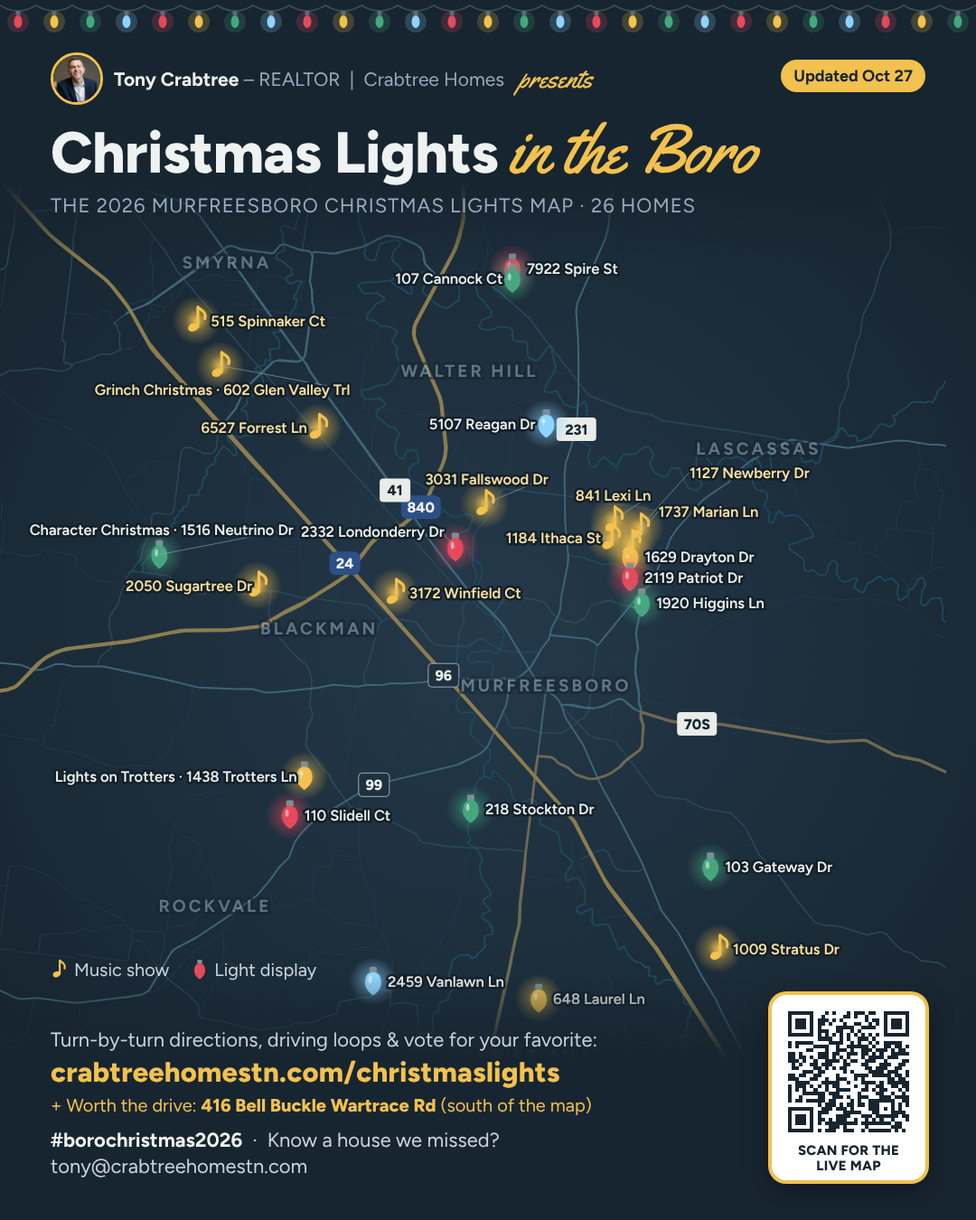
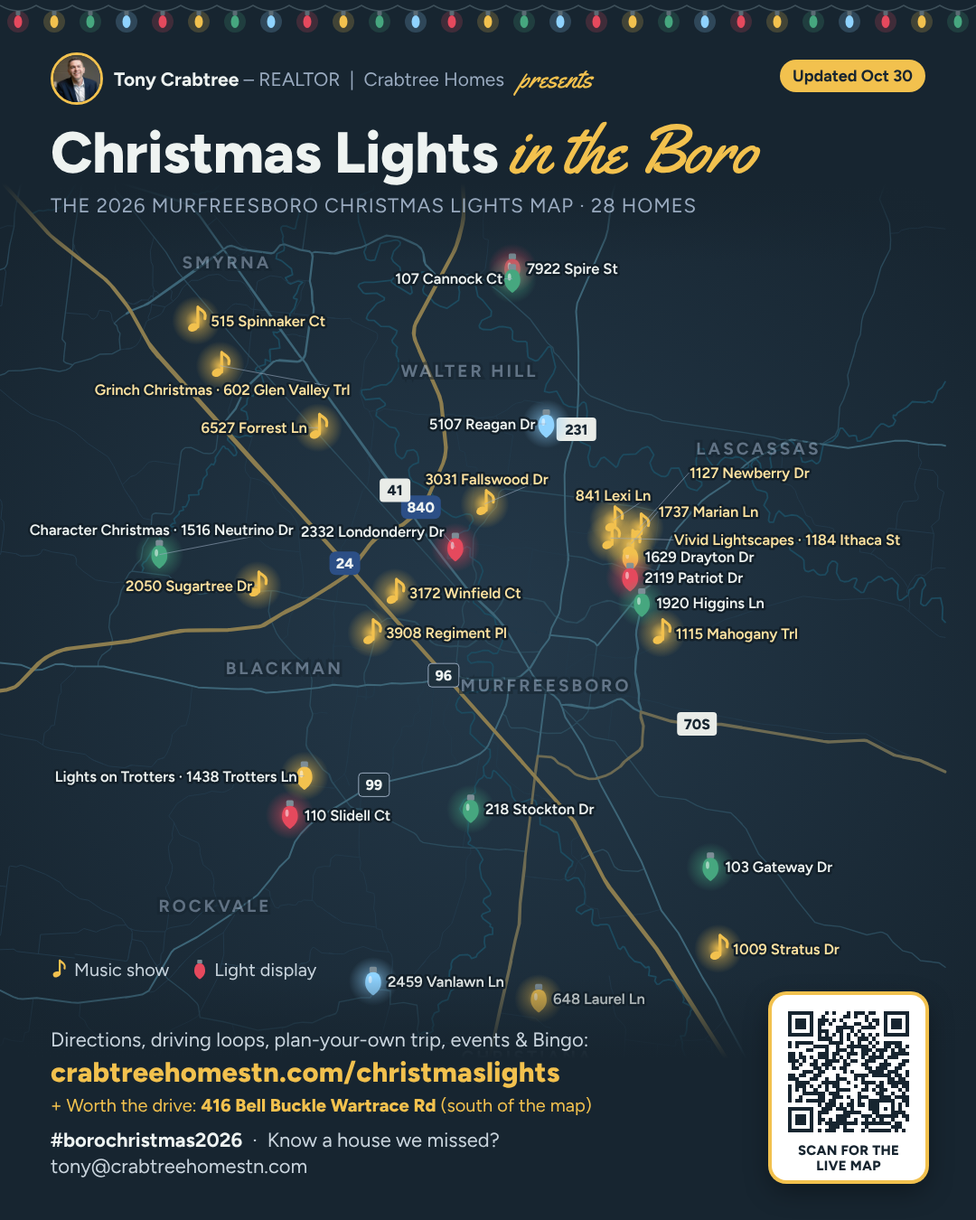
Add my trip planner, start from my location, drive times, events and bingo; 28 homes

diff --git a/index.html b/index.html
@@ -164,6 +164,49 @@ footer{margin-top:20px;padding-top:18px;border-top:1px solid var(--line);display
 .agent{background-image:radial-gradient(circle at 100% 0,rgba(229,73,93,.12),transparent 40%),radial-gradient(circle at 0 100%,rgba(70,167,127,.10),transparent 40%)}
 .mapcard{box-shadow:0 0 0 1px rgba(229,73,93,.08),0 18px 50px -30px rgba(229,73,93,.45)}
 @media (prefers-reduced-motion:reduce){#snow{display:none}}
+
+.tabs{overflow-x:auto;scrollbar-width:none}.tabs::-webkit-scrollbar{display:none}.tab{flex:0 0 auto;white-space:nowrap}
+@media (max-width:480px){.tab{padding:10px 9px;font-size:14px}}
+.startrow{display:flex;align-items:center;gap:8px 10px;flex-wrap:wrap;font-size:13px;margin-top:14px}
+.startrow .chip[aria-pressed="true"]{background:var(--ice);border-color:var(--ice);color:#0e1d26}
+#startMsg{color:var(--muted);font-size:12.5px}
+.chip.trip-chip{border-color:var(--gold)}
+.chip.trip-chip[aria-pressed="true"]{background:var(--gold);border-color:var(--gold);color:#1b1405}
+.away{font-size:12px;color:var(--ice);font-weight:600;margin-top:2px}
+.btn.add{border-style:dashed}
+.btn.add.in{background:rgba(242,193,78,.16);border:1px solid var(--gold);color:var(--gold)}
+.eta{display:flex;flex-wrap:wrap;gap:6px 16px;font-size:13.5px}
+.eta b{color:var(--gold);font-variant-numeric:tabular-nums}
+.legs{display:flex;flex-wrap:wrap;gap:8px}
+.routebox.trip{border-color:var(--gold)}
+.routebox .tl{list-style:none;padding:0;columns:1;display:grid;gap:6px}
+.tl li{display:flex;align-items:center;gap:10px;background:var(--panel-2);border-radius:10px;padding:6px 8px 6px 10px}
+.tl .n{width:22px;height:22px;border-radius:50%;display:grid;place-items:center;font-size:11.5px;font-weight:700;background:var(--gold);color:#1b1405;flex:0 0 auto}
+.tl .x{margin-left:auto;background:none;border:0;color:var(--muted);font-size:18px;cursor:pointer;padding:2px 6px}
+.small{font-size:12.5px;color:var(--muted)}
+.tripbar{position:fixed;left:50%;transform:translateX(-50%);bottom:max(14px,env(safe-area-inset-bottom,0px));z-index:20;display:flex;align-items:center;gap:12px;
+  background:var(--panel);border:1px solid var(--gold);border-radius:999px;padding:8px 8px 8px 16px;box-shadow:0 10px 30px -10px #000;max-width:calc(100% - 32px);font-size:14px;white-space:nowrap}
+.tripbar[hidden]{display:none}
+body{padding-bottom:90px}
+.tripbar .btn{border-radius:999px}
+.pin.intrip .core{filter:drop-shadow(0 0 5px var(--gold)) drop-shadow(0 0 10px var(--gold))}
+.evlist{list-style:none;margin:14px 0 0;padding:0;display:grid;grid-template-columns:repeat(auto-fill,minmax(290px,1fr));gap:12px}
+.ev{background:var(--panel);border:1px solid var(--line);border-radius:14px;padding:14px;display:grid;gap:6px;align-content:start}
+.ev.now{border-color:var(--pine)}
+.ev h3{margin:0;font-size:16.5px;line-height:1.3}
+.ev .when{color:var(--gold);font-weight:600;font-size:14px}
+.ev .meta{color:var(--muted);font-size:13.5px}
+.bingo{max-width:520px;margin:14px auto 0;background:var(--panel);border:1px solid var(--line);border-radius:16px;padding:14px;display:grid;gap:10px}
+.bhead,.bgrid{display:grid;grid-template-columns:repeat(5,minmax(0,1fr));gap:6px}
+.bhead span{text-align:center;font-family:var(--display);font-size:34px;line-height:1;color:var(--gold)}
+.bcell{aspect-ratio:1;border-radius:10px;border:1px solid var(--line);background:var(--panel-2);display:grid;place-items:center;text-align:center;
+  font-size:clamp(10.5px,2.9vw,13.5px);line-height:1.2;padding:3px;cursor:pointer;overflow-wrap:break-word;transition:background .15s}
+.bcell[aria-pressed="true"]{background:radial-gradient(circle,rgba(229,73,93,.55),rgba(229,73,93,.25));border-color:var(--berry);color:#fff;font-weight:600}
+.bcell.free{background:radial-gradient(circle,rgba(242,193,78,.5),rgba(242,193,78,.18));border-color:var(--gold);font-weight:700;cursor:default}
+.bcell.win{box-shadow:0 0 0 2px var(--gold),0 0 18px -4px var(--gold)}
+.bwin{text-align:center;background:rgba(242,193,78,.14);border:1px solid var(--gold);border-radius:12px;padding:10px;font-weight:600}
+.bwin[hidden]{display:none}
+.bfoot{display:flex;justify-content:space-between;align-items:center;gap:10px;flex-wrap:wrap;font-size:12px;color:var(--muted)}
 </style>
 
 <canvas id="snow" aria-hidden="true"></canvas>
@@ -174,13 +217,15 @@ footer{margin-top:20px;padding-top:18px;border-top:1px solid var(--line);display
[1 lines of base64/hex data omitted]
   <div class="eyebrow">Murfreesboro &amp; Rutherford County · 2026</div>
   <h1>Christmas Lights <em>in the Boro</em><svg class="holly" viewBox="0 0 24 24" aria-hidden="true"><path d="M12 12C8 4 2 6 2 6s3 1 2 4c3-1 4 2 4 2s-1 3 4 0Z" fill="#46a77f"/><path d="M12 12c4-8 10-6 10-6s-3 1-2 4c-3-1-4 2-4 2s1 3-4 0Z" fill="#3a8f6b"/><circle cx="10" cy="15" r="2.6" fill="#e5495d"/><circle cx="14" cy="15.5" r="2.6" fill="#e5495d"/><circle cx="12" cy="18.6" r="2.6" fill="#c93a4d"/></svg></h1>
-  <p class="sub">Every house on the list, with turn-by-turn directions and ready-made driving loops. Tap a light on the map, or pick a route and go.</p>
+  <p class="sub">Every house on the list, with turn-by-turn directions and ready-made driving loops. Tap a light on the map, pick a ready-made loop, or build your own trip.</p>
   <div class="stats" id="stats"></div>
 </header>
 
 <nav class="tabs" aria-label="Views">
   <button class="tab" id="tabMap" aria-pressed="true">Map &amp; list</button>
   <button class="tab" id="tabTop" aria-pressed="false">★ Top rated</button>
+  <button class="tab" id="tabEv" aria-pressed="false">Events</button>
+  <button class="tab" id="tabBingo" aria-pressed="false">Bingo</button>
 </nav>
 <section id="viewMap">
 <div class="mapcard">
@@ -194,6 +239,7 @@ footer{margin-top:20px;padding-top:18px;border-top:1px solid var(--line);display
   <div class="maplegend"><span><svg width="14" height="16" viewBox="-8 -13 16 26" aria-hidden="true"><path d="M1.2,-11 L1.2,5.2 M1.2,-11 C4,-8 8.5,-7.5 7,-1.5" fill="none" stroke="#f2c14e" stroke-width="2.2" stroke-linecap="round"/><ellipse cx="-2.6" cy="5.6" rx="4.4" ry="3.3" transform="rotate(-22 -2.6 5.6)" fill="#f2c14e"/></svg> Music show</span><span><svg width="12" height="16" viewBox="-7 -13 14 26" aria-hidden="true"><rect x="-3" y="-12" width="6" height="5" rx="1.2" fill="#7d8d96"/><path d="M0,-7.5 C5.5,-7.5 6.5,-2 6.5,1.5 C6.5,6 3,9.5 0,11.5 C-3,9.5 -6.5,6 -6.5,1.5 C-6.5,-2 -5.5,-7.5 0,-7.5Z" fill="#e5495d"/></svg> Light display</span><span style="opacity:.6">Faded = you've seen it</span></div>
 </div>
 
+<div class="startrow"><span class="chiplabel">Routes start from</span><span class="chips" id="starts"></span><span id="startMsg" role="status"></span></div>
 <div class="bar">
   <div class="progress"><span id="seenTxt">0 of 0 seen</span><div class="track"><div class="fill" id="fill"></div></div></div>
   <div><div class="chiplabel">Show</div><div class="chips" id="filters"></div></div>
@@ -208,6 +254,20 @@ footer{margin-top:20px;padding-top:18px;border-top:1px solid var(--line);display
   <ol class="toplist" id="toplist"></ol>
 </section>
 
+<section id="viewEv" hidden>
+  <div class="tophead"><h2>Holiday events around the Boro</h2><p>Make a night of it. Parades, tree lightings and festivals near the lights. Times come from each organizer, so double-check before you head out.</p></div>
+  <ul class="evlist" id="evlist"></ul>
+  <p class="small" style="margin-top:12px">Know of an event we should add? Email <a href="mailto:tony@crabtreehomestn.com">tony@crabtreehomestn.com</a>.</p>
+</section>
+<section id="viewBingo" hidden>
+  <div class="tophead"><h2>Christmas Lights Bingo</h2><p>Tap a square when you spot it from the car. Get five in a row, then screenshot your card and tag <b>#borochristmas2026</b>.</p></div>
+  <div class="bingo">
+    <div class="bhead" aria-hidden="true"><span>B</span><span>I</span><span>N</span><span>G</span><span>O</span></div>
+    <div class="bgrid" id="bgrid" role="grid" aria-label="Bingo card"></div>
+    <div class="bwin" id="bwin" role="status" hidden></div>
+    <div class="bfoot"><span>Christmas Lights in the Boro · Tony Crabtree, REALTOR® · crabtreehomestn.com</span><button class="btn" id="bnew">New card</button></div>
+  </div>
+</section>
 <div class="panel">
   <div class="box">
     <h3>Vote for your favorite</h3>
@@ -258,11 +318,13 @@ footer{margin-top:20px;padding-top:18px;border-top:1px solid var(--line);display
 </footer>
 </div>
 
+<div class="tripbar" id="tripbar" hidden><span id="tripTxt"></span><button class="btn primary" id="tripGo">View &amp; go</button></div>
 <script>
 /* ===== DATA: the one list everything is built from ===== */
 const API="https://script.google.com/macros/s/AKfycbyzSNgTxU_FqSe_oGFf5buTR7yX4UnmajDvgz_kEYmobSp0XMeyXFsFdK17Uz8tG2Ky/exec";
 let UPDATED="";
 /* Backup copy of the list, used only if the Google Sheet can't be reached */
+let EVENTS = [{"name": "Murfreesboro Holiday Market", "when": "Sat, Nov 21", "time": "10 AM", "where": "Stones River Mall", "cost": "Free", "link": "https://onlyinmurfreesboro.com/christmas-events-murfreesboro/", "start": "2026-11-21", "end": "2026-11-21"}, {"name": "Smyrna Christmas Tree Lighting", "when": "Tue, Nov 24", "time": "6 PM", "where": "Depot District, Smyrna", "cost": "Free", "link": "https://onlyinmurfreesboro.com/christmas-events-murfreesboro/", "start": "2026-11-24", "end": "2026-11-24"}, {"name": "Holly Jolly Festival of Lights", "when": "Select nights, Nov 27 – Dec 23", "time": "From 5 PM", "where": "Lucky Ladd Farms, Eagleville", "cost": "$12–$16 online, more at the gate", "link": "https://onlyinmurfreesboro.com/christmas-events-murfreesboro/", "start": "2026-11-27", "end": "2026-12-23"}, {"name": "Christmas Tree Lighting on the Square", "when": "Fri, Dec 4", "time": "6 PM · Santa photos 7:30–8:30", "where": "Historic Courthouse, Murfreesboro Public Square", "cost": "Free", "link": "https://onlyinmurfreesboro.com/christmas-events-murfreesboro/", "start": "2026-12-04", "end": "2026-12-04"}, {"name": "A Charming Christmas at Cannonsburgh Village", "when": "Dec 4–5, 11–12 & 18–19", "time": "4–8 PM", "where": "312 S Front St, Murfreesboro", "cost": "$5 · ages 5 & under free", "link": "https://onlyinmurfreesboro.com/christmas-events-murfreesboro/", "start": "2026-12-04", "end": "2026-12-19"}, {"name": "Smyrna Christmas Parade", "when": "Sun, Dec 6", "time": "2 PM", "where": "Lowry St, Downtown Smyrna", "cost": "Free", "link": "https://onlyinmurfreesboro.com/christmas-events-murfreesboro/", "start": "2026-12-06", "end": "2026-12-06"}, {"name": "Candlelight Tour of Homes", "when": "Sat, Dec 12", "time": "4–8 PM", "where": "Oaklands Mansion, 900 N Maney Ave", "cost": "$30 adults · $10 ages 6–12 · 5 & under free", "link": "https://www.oaklandsmansion.org/candlelighttour/", "start": "2026-12-12", "end": "2026-12-12"}, {"name": "Murfreesboro Christmas Parade: \"A Country Christmas\"", "when": "Sun, Dec 13", "time": "2 PM", "where": "E. Main St from MTSU to the Square", "cost": "Free", "link": "https://www.wgnsradio.com/article/101618/murfreesboro-christmas-parade-2pm-sun-dec-13-2026", "start": "2026-12-13", "end": "2026-12-13"}, {"name": "Christmas at Patterson", "when": "Fri, Dec 18 & Sat, Dec 19", "time": "Fri 6 PM · Sat 4 PM", "where": "Patterson Park Community Center, 521 Dr. MLK Jr. Blvd.", "cost": "Free", "link": "https://onlyinmurfreesboro.com/christmas-events-murfreesboro/", "start": "2026-12-18", "end": "2026-12-19"}];
 const FALLBACK = [
  ["107 Cannock Ct","Murfreesboro","37129",35.98643,-86.40647,"s","Far North","","","2026-11-26"],
  ["5107 Reagan Dr","Murfreesboro","37129",35.93563,-86.39179,"s","Far North","","","2026-11-23"],
@@ -324,17 +386,42 @@ const saveSeen=()=>{try{localStorage.setItem("boro-seen",JSON.stringify([...seen
 
 let filter="all", zone=null, selected=null;
 
-/* route order: start at the stop closest to the square, then nearest-next */
-function orderZone(z){
-  const pts=H.filter(h=>h.zone===z); if(!pts.length) return [];
-  let cur=pts.reduce((a,b)=>dist(a,SQUARE)<dist(b,SQUARE)?a:b), out=[cur], left=pts.filter(p=>p!==cur);
+/* where routes start: the Square, or the visitor's location */
+let here=null; // {lat,lng} once they tap "My location"
+const startPt=()=>here||SQUARE;
+const miles=(a,b)=>dist(a,b)*69;
+/* route order: start at the stop closest to the start point, then nearest-next */
+function orderStops(pts){
+  if(!pts.length) return [];
+  const o=startPt();
+  let cur=pts.reduce((a,b)=>dist(a,o)<dist(b,o)?a:b), out=[cur], left=pts.filter(p=>p!==cur);
   while(left.length){const n=left.reduce((a,b)=>dist(cur,a)<dist(cur,b)?a:b);out.push(n);left=left.filter(p=>p!==n);cur=n}
   return out;
 }
-function routeURL(stops){
-  const last=stops[stops.length-1], way=stops.slice(0,-1).slice(0,9);
-  return `https://www.google.com/maps/dir/?api=1&destination=${enc(last.full)}&waypoints=${way.map(s=>enc(s.full)).join("%7C")}&travelmode=driving`;
+const orderZone=z=>orderStops(z==="trip"?H.filter(h=>trip.has(h.key)):H.filter(h=>h.zone===z));
+/* rough drive time: straight-line miles x road factor, slower in town, plus ~3 min to enjoy each stop */
+function eta(stops){
+  let mi=0,min=0,prev=startPt();
+  stops.forEach(s=>{const m=miles(prev,s);mi+=m*1.3;min+=m<3?m*1.35/25*60:m*1.25/40*60;prev=s});
+  const drive=Math.max(5,Math.round(min/5)*5), total=Math.round((min+stops.length*3)/5)*5;
+  return {mi:Math.round(mi),drive,total};
 }
+const hm=m=>m<60?`${m} min`:`${Math.floor(m/60)} hr${m%60?` ${m%60} min`:""}`;
+/* Google Maps on phones takes about 3 stops in between, so long routes open in legs of 4 houses */
+function legs(stops){
+  const out=[];
+  for(let i=0;i<stops.length;i+=4){
+    const part=stops.slice(i,i+4), last=part[part.length-1], way=part.slice(0,-1), from=i?stops[i-1]:null;
+    out.push({a:i+1,b:i+part.length,url:`https://www.google.com/maps/dir/?api=1${from?`&origin=${enc(from.full)}`:""}&destination=${enc(last.full)}${way.length?`&waypoints=${way.map(s=>enc(s.full)).join("%7C")}`:""}&travelmode=driving`});
+  }
+  return out;
+}
+
+/* ===== my trip (houses the visitor picks) ===== */
+let trip=new Set();
+try{trip=new Set(JSON.parse(localStorage.getItem("boro-trip")||"[]"))}catch(e){}
+const saveTrip=()=>{try{localStorage.setItem("boro-trip",JSON.stringify([...trip]))}catch(e){}};
+function toggleTrip(k){trip.has(k)?trip.delete(k):trip.add(k);saveTrip();if(zone==="trip"&&!trip.size)zone=null;chips();drawMap();render()}
 
 /* ===== map ===== */
 const svg=$("#map"), NS="http://www.w3.org/2000/svg";
@@ -363,7 +450,8 @@ function drawMap(){
     const t=el("text",{x,y:y+5,"text-anchor":"middle",class:"shieldtxt",fill:kind==="US"?"#14252b":"#eef3f1"},g);t.textContent=ref});
   TOWNS.forEach(t=>{const [x,y]=px(t[1],t[2]);const tx=el("text",{x,y,"text-anchor":"middle",class:"town"+(t[3]?" big":"")});tx.textContent=t[0]});
   // route line
-  if(zone){const st=orderZone(zone);el("polyline",{class:"route",points:st.map(h=>px(h.lat,h.lng).join(",")).join(" ")})}
+  if(zone){const st=orderZone(zone);el("polyline",{class:"route",points:[...(here&&here.lat<B.n&&here.lat>B.s&&here.lng>B.w&&here.lng<B.e?[here]:[]),...st].map(h=>px(h.lat,h.lng).join(",")).join(" ")})}
+  if(here&&here.lat<B.n&&here.lat>B.s&&here.lng>B.w&&here.lng<B.e){const [x,y]=px(here.lat,here.lng);el("circle",{cx:x,cy:y,r:14,fill:"#8fd3ff",opacity:.25});el("circle",{cx:x,cy:y,r:6,fill:"#8fd3ff",stroke:"#fff","stroke-width":2})}
   // pins
   H.forEach(h=>{
     const [x,y]=px(h.lat,h.lng);
@@ -388,7 +476,8 @@ function drawMap(){
   paintPins();setVB();
 }
 function visible(h){
-  if(zone && h.zone!==zone) return false;
+  if(zone==="trip"){if(!trip.has(h.key))return false}
+  else if(zone && h.zone!==zone) return false;
   if(filter==="m") return h.type==="m";
   if(filter==="s") return h.type==="s";
   if(filter==="show") return !!h.show;
@@ -397,7 +486,7 @@ function visible(h){
 }
 function paintPins(){
   svg.querySelectorAll(".pin").forEach(g=>{const h=H[+g.dataset.id];
-    g.classList.toggle("dim",!visible(h));g.classList.toggle("sel",selected===h.id);g.classList.toggle("seen",seen.has(h.key))});
+    g.classList.toggle("dim",!visible(h));g.classList.toggle("sel",selected===h.id);g.classList.toggle("seen",seen.has(h.key));g.classList.toggle("intrip",trip.has(h.key))});
 }
 function zoomTo(f,cx,cy){
   const nw=Math.min(W,Math.max(W/6,vb.w*f)), nh=nw*HH/W;
@@ -415,22 +504,24 @@ function card(h,n){
   const c=document.createElement("article");
   c.className="card"+(seen.has(h.key)?" seen":"")+(selected===h.id?" sel":"");c.id="h"+h.id;
   c.innerHTML=`<div class="top"><div class="num ${h.type}">${n}</div>
-    <div style="min-width:0">${h.name?`<div class="dname">${esc(h.name)}</div>`:""}<div class="addr">${esc(h.addr)}</div><div class="city">${esc(h.city)}, TN ${esc(h.zip)}</div></div></div>
+    <div style="min-width:0">${h.name?`<div class="dname">${esc(h.name)}</div>`:""}<div class="addr">${esc(h.addr)}</div><div class="city">${esc(h.city)}, TN ${esc(h.zip)}</div>${here?`<div class="away">${miles(here,h).toFixed(1)} mi from you</div>`:""}</div></div>
     <div class="tags">${h.start?`<span class="tag start${isOn(h)?" on":""}">${startText(h)}</span>`:""}<span class="tag ${h.type}">${typeName[h.type]}</span><span class="tag">${esc((ZONES[h.zone]||{name:h.zone}).name)}</span>${h.show?`<a class="tag show" href="${esc(h.show)}" target="_blank" rel="noopener">Show page ↗</a>`:""}</div>
     <div class="rate" role="group" aria-label="Rate ${esc(h.addr)}">${[1,2,3,4,5].map(v=>`<button class="star${(mine[h.key]||0)>=v?" on":""}" data-v="${v}" aria-label="${v} star${v>1?"s":""}" aria-pressed="${mine[h.key]===v}">★</button>`).join("")}<span class="avg">${avgText(h.key)}</span></div>
     <div class="go"><a class="btn primary" href="${gmap(h)}" target="_blank" rel="noopener">Google Maps</a>
       <a class="btn" href="${amap(h)}" target="_blank" rel="noopener">Apple Maps</a>
       <a class="btn" href="${waze(h)}" target="_blank" rel="noopener">Waze</a>
+      <button class="btn add${trip.has(h.key)?" in":""}" data-trip aria-pressed="${trip.has(h.key)}">${trip.has(h.key)?"✓ In my trip":"＋ Add to my trip"}</button>
       <label class="seenbox"><input type="checkbox" id="seen${h.id}" ${seen.has(h.key)?"checked":""}> Seen it</label></div>`;
   c.querySelectorAll(".star").forEach(b=>b.addEventListener("click",()=>rate(h.key,+b.dataset.v)));
+  c.querySelector("[data-trip]").addEventListener("click",()=>toggleTrip(h.key));
   c.querySelector("input").addEventListener("change",e=>{e.target.checked?seen.add(h.key):seen.delete(h.key);saveSeen();render()});
   c.addEventListener("mouseenter",()=>{selected=h.id;paintPins()});
   return c;
 }
 function render(){
   const list=$("#list");list.innerHTML="";
-  const items=zone?orderZone(zone):H;
-  items.filter(visible).forEach((h,i)=>list.appendChild(card(h,zone?i+1:h.id+1)));
+  const items=zone?orderZone(zone):here?[...H].sort((a,b)=>dist(a,here)-dist(b,here)):H;
+  items.filter(visible).forEach((h,i)=>list.appendChild(card(h,zone||here?i+1:h.id+1)));
   if(!list.children.length) list.innerHTML=`<p style="color:var(--muted)">${filter==="on"?"No houses are lit up yet. Most displays start the week of Thanksgiving. Tap “All houses” to see each start date.":filter==="todo"?"Nothing left here. You've seen every house in this group!":"No houses match this filter yet."}</p>`;
   // progress
   const sc=H.filter(h=>seen.has(h.key)).length;
@@ -438,12 +529,25 @@ function render(){
   $("#fill").style.width=(sc/H.length*100)+"%";
   // route box
   const rb=$("#routebox");
-  if(zone){const st=orderZone(zone);
-    rb.innerHTML=`<div class="routebox"><h3>${ZONES[zone].name}: ${st.length} stops</h3>
-    <p>Starts at the stop closest to the Square, then goes to the nearest house each time. Opens in Google Maps with every stop loaded.</p>
-    <ol>${st.map(s=>`<li>${esc(s.addr)}</li>`).join("")}</ol>
-    <div class="go"><a class="btn red" href="${routeURL(st)}" target="_blank" rel="noopener">Start this loop in Google Maps</a></div></div>`;
+  const _st=zone?orderZone(zone):[];
+  if(zone&&_st.length){const st=_st, t=eta(st), lg=legs(st), isTrip=zone==="trip", from=here?"you":"the Square";
+    rb.innerHTML=`<div class="routebox${isTrip?" trip":""}"><h3>${isTrip?"My trip":ZONES[zone].name}: ${st.length} stop${st.length>1?"s":""}</h3>
+    <div class="eta"><span>About <b>${hm(t.total)}</b> total</span><span><b>${hm(t.drive)}</b> of driving · ~${t.mi} mi from ${from}</span></div>
+    <p>Starts at the house closest to ${from}, then the nearest house each time. Total includes a few minutes at each stop.${lg.length>1?` Google Maps opens ${lg.length} legs of up to 4 houses; when you finish one, tap the next.`:""}</p>
+    ${isTrip?`<ol class="tl">${st.map((s,i)=>`<li><span class="n">${i+1}</span><span>${esc(s.name?s.name+" · ":"")}${esc(s.addr)}</span><button class="x" data-rm="${esc(s.key)}" aria-label="Remove ${esc(s.addr)}">×</button></li>`).join("")}</ol>`
+      :`<ol>${st.map(s=>`<li>${esc(s.addr)}</li>`).join("")}</ol>`}
+    <div class="legs">${lg.map((l,i)=>`<a class="btn ${i?"":"red"}" href="${l.url}" target="_blank" rel="noopener">${lg.length>1?`Leg ${i+1}: stops ${l.a}–${l.b}`:"Start in Google Maps"}</a>`).join("")}</div>
+    ${isTrip?`<div class="go"><button class="btn" id="tripShare">Copy trip link</button><button class="btn" id="tripClear">Clear trip</button><span class="small" id="tripMsg"></span></div>`:""}</div>`;
+    rb.querySelectorAll("[data-rm]").forEach(b=>b.onclick=()=>toggleTrip(b.dataset.rm));
+    if(isTrip){
+      $("#tripClear").onclick=()=>{trip.clear();saveTrip();zone=null;chips();drawMap();render()};
+      $("#tripShare").onclick=async()=>{const u=location.origin+location.pathname+"?trip="+[...trip].map(enc).join(",");
+        try{await navigator.clipboard.writeText(u);$("#tripMsg").textContent="Link copied. Text it to whoever's riding along!"}catch(e){prompt("Copy this link:",u)}};
+    }
   } else rb.innerHTML="";
+  const tb=$("#tripbar");
+  if(trip.size&&zone!=="trip"&&!$("#viewMap").hidden){const t=eta(orderZone("trip"));tb.hidden=false;$("#tripTxt").innerHTML=`My trip: <b>${trip.size}</b> stop${trip.size>1?"s":""} · ~${hm(t.total)}`}
+  else tb.hidden=true;
   paintPins();
 }
 function select(id,scroll){selected=id;paintPins();document.querySelectorAll(".card").forEach(c=>c.classList.toggle("sel",c.id==="h"+id));
@@ -455,12 +559,25 @@ function chips(){
   [["all","All houses"],["m","Music shows"],["todo","Haven't seen yet"],["show","Has a show page"],["s","Static light displays"]].forEach(([k,l])=>{
     const b=document.createElement("button");b.className="chip";b.textContent=l;b.setAttribute("aria-pressed",filter===k);
     b.onclick=()=>{filter=k;chips();render()};f.appendChild(b)});
+  const st=$("#starts");st.innerHTML="";
+  [["sq","Downtown Square"],["me","📍 My location"]].forEach(([k,l])=>{const b=document.createElement("button");b.className="chip";b.textContent=l;
+    b.setAttribute("aria-pressed",k==="me"?!!here:!here);b.onclick=()=>k==="me"?locate():(here=null,$("#startMsg").textContent="",chips(),drawMap(),render());st.appendChild(b)});
   const r=$("#routes");r.innerHTML="";
   const none=document.createElement("button");none.className="chip route-chip";none.textContent="Everywhere";none.setAttribute("aria-pressed",!zone);
   none.onclick=()=>{zone=null;chips();drawMap();render()};r.appendChild(none);
+  if(trip.size){const t=document.createElement("button");t.className="chip trip-chip";t.textContent=`★ My trip (${trip.size})`;t.setAttribute("aria-pressed",zone==="trip");
+    t.onclick=()=>{zone="trip";chips();drawMap();render()};r.appendChild(t)}
   Object.entries(ZONES).forEach(([k,z])=>{const n=H.filter(h=>h.zone===k).length;if(!n)return;
     const b=document.createElement("button");b.className="chip route-chip";b.textContent=`${z.name} (${n})`;b.setAttribute("aria-pressed",zone===k);
     b.onclick=()=>{zone=k;chips();drawMap();render()};r.appendChild(b)});
+}
+function locate(){
+  const m=$("#startMsg");
+  if(!navigator.geolocation){m.textContent="Your browser can't share location.";return}
+  m.textContent="Finding you…";
+  navigator.geolocation.getCurrentPosition(p=>{here={lat:p.coords.latitude,lng:p.coords.longitude};
+    const d=miles(here,SQUARE);m.textContent=d>60?"You're a ways out! Distances are from where you are now.":"Sorted closest first.";chips();drawMap();render()},
+    ()=>{m.textContent="Location is off. Allow it in your browser settings, or start from the Square.";},{enableHighAccuracy:false,timeout:10000,maximumAge:300000});
 }
 function stats(){
   const m=H.filter(h=>h.type==="m").length,s=H.filter(h=>h.type==="s").length,u=H.length-m-s;
@@ -499,9 +616,52 @@ function renderTop(){
     <div class="go"><a class="btn primary" href="${gmap(r.h)}" target="_blank" rel="noopener">Go</a><button class="btn" data-show="${r.h.id}">On map</button></div></li>`).join("");
   ol.querySelectorAll("[data-show]").forEach(b=>b.onclick=()=>{showTab("map");filter="all";zone=null;chips();drawMap();render();select(+b.dataset.show,true)});
 }
-function showTab(v){$("#viewMap").hidden=v!=="map";$("#viewTop").hidden=v!=="top";
-  $("#tabMap").setAttribute("aria-pressed",v==="map");$("#tabTop").setAttribute("aria-pressed",v==="top");if(v==="top")renderTop()}
-$("#tabMap").onclick=()=>showTab("map");$("#tabTop").onclick=()=>showTab("top");
+const TABS={map:["#viewMap","#tabMap"],top:["#viewTop","#tabTop"],ev:["#viewEv","#tabEv"],bingo:["#viewBingo","#tabBingo"]};
+function showTab(v){Object.entries(TABS).forEach(([k,[s,t]])=>{$(s).hidden=k!==v;$(t).setAttribute("aria-pressed",k===v)});
+  if(v==="top")renderTop();if(v==="ev")renderEvents();if(v==="bingo")renderBingo();render()}
+Object.entries(TABS).forEach(([k,[,t]])=>$(t).onclick=()=>showTab(k));
+$("#tripGo").onclick=()=>{zone="trip";chips();drawMap();render();$("#routebox").scrollIntoView({behavior:"smooth",block:"start"})};
+
+/* ===== events (from the Events tab of the sheet) ===== */
+function renderEvents(){
+  const today=new Date();today.setHours(0,0,0,0);
+  const d=v=>{const m=String(v||"").match(/^(\d{4})-(\d{1,2})-(\d{1,2})/);return m?new Date(+m[1],+m[2]-1,+m[3]):null};
+  const list=EVENTS.filter(e=>{const end=d(e.end)||d(e.start);return !end||end>=today}).sort((a,b)=>(d(a.start)||0)-(d(b.start)||0));
+  const ul=$("#evlist");
+  if(!list.length){ul.innerHTML=`<li class="empty">No upcoming events right now. Check back after Thanksgiving!</li>`;return}
+  ul.innerHTML=list.map(e=>{const s=d(e.start),en=d(e.end)||s,now=s&&s<=today&&en>=today;
+    return `<li class="ev${now?" now":""}">${now?`<span class="tag start on" style="justify-self:start">Happening now</span>`:""}<h3>${esc(e.name)}</h3>
+    <div class="when">${esc(e.when)}${e.time?` · ${esc(e.time)}`:""}</div>
+    <div class="meta">${esc(e.where)}${e.cost?`<br>${esc(e.cost)}`:""}</div>
+    <div class="go">${e.where?`<a class="btn" href="https://www.google.com/maps/dir/?api=1&destination=${enc(e.where+", TN")}&travelmode=driving" target="_blank" rel="noopener">Directions</a>`:""}${safeUrl(e.link)?`<a class="btn" href="${esc(e.link)}" target="_blank" rel="noopener">Details ↗</a>`:""}</div></li>`}).join("");
+}
+
+/* ===== Christmas Lights Bingo ===== */
+const BINGO=["Blow-up snowman","Santa on the roof","A Grinch","Light-up reindeer","Nativity scene","Candy cane path","Lights dancing to music",
+ "All-blue lights","All-white lights","Rainbow lights","Light tunnel","Giant inflatable","Tree glowing in a window",
+ "Wreath on the door","Snowflake projector","Lit-up mailbox","Penguins","Nutcracker","Elf","Polar bear","Angel",
+ "Christmas train","Over-the-top house","Icicle lights","Lit-up tree trunks","Window candles","Snow globe",
+ "Santa's sleigh","Flamingo in a Santa hat","\"Santa, stop here\" sign","Someone waving","Another light-tour car",
+ "A dog in a sweater","Hot cocoa in the car","Giant lit star","Presents on the lawn","Lit-up arch","Moving figure","Matching PJs","Lit-up candy canes"];
+let bingo=null;
+try{bingo=JSON.parse(localStorage.getItem("boro-bingo")||"null")}catch(e){}
+function newCard(){const a=[...BINGO];for(let i=a.length-1;i>0;i--){const j=Math.floor(Math.random()*(i+1));[a[i],a[j]]=[a[j],a[i]]}
+  const cells=a.slice(0,24);cells.splice(12,0,"FREE");bingo={cells,marked:[12]};saveBingo()}
+const saveBingo=()=>{try{localStorage.setItem("boro-bingo",JSON.stringify(bingo))}catch(e){}};
+const LINES=[...[0,1,2,3,4].map(r=>[0,1,2,3,4].map(c=>r*5+c)),...[0,1,2,3,4].map(c=>[0,1,2,3,4].map(r=>r*5+c)),[0,6,12,18,24],[4,8,12,16,20]];
+function renderBingo(){
+  if(!bingo||!Array.isArray(bingo.cells)||bingo.cells.length!==25)newCard();
+  const m=new Set(bingo.marked), wins=LINES.filter(l=>l.every(i=>m.has(i))), win=new Set(wins.flat());
+  const g=$("#bgrid");
+  g.innerHTML=bingo.cells.map((t,i)=>i===12?`<div class="bcell free${win.has(i)?" win":""}" role="gridcell">⭐ FREE</div>`
+    :`<button class="bcell${win.has(i)?" win":""}" role="gridcell" aria-pressed="${m.has(i)}" data-i="${i}">${esc(t)}</button>`).join("");
+  g.querySelectorAll("button").forEach(b=>b.onclick=()=>{const i=+b.dataset.i;m.has(i)?m.delete(i):m.add(i);bingo.marked=[...m];saveBingo();renderBingo()});
+  const w=$("#bwin");
+  if(m.size===25){w.hidden=false;w.innerHTML="🎄 BLACKOUT! You spotted everything. Screenshot this and tag <b>#borochristmas2026</b>!"}
+  else if(wins.length){w.hidden=false;w.innerHTML=`🎉 BINGO${wins.length>1?` ×${wins.length}`:""}! Screenshot your card and tag <b>#borochristmas2026</b>. Keep going for a blackout!`}
+  else w.hidden=true;
+}
+$("#bnew").onclick=()=>{if(bingo&&bingo.marked.length>1&&!confirm("Start a new card? This clears your marks."))return;newCard();renderBingo()};
 
 /* ===== lead form ===== */
 $("#leadForm").addEventListener("submit",async e=>{
@@ -515,15 +675,20 @@ $("#leadForm").addEventListener("submit",async e=>{
 });
 
 /* ===== load from the sheet ===== */
-function boot(){stats();chips();drawMap();render();renderTop();}
+function boot(){stats();chips();drawMap();render();renderTop();if(!$("#viewEv").hidden)renderEvents();}
 setHouses(FALLBACK);
+/* a shared trip link: ?trip=key1,key2 */
+(()=>{const q=new URLSearchParams(location.search).get("trip");if(!q)return;
+  trip=new Set(q.split(",").map(decodeURIComponent).filter(Boolean));saveTrip();zone="trip";})();
 fetch(API).then(r=>r.json()).then(j=>{
   if(!j.ok||!j.houses||!j.houses.length) return;
   serverTotals=j.totals||{};
+  if(Array.isArray(j.events))EVENTS=j.events;
   try{UPDATED=new Date(j.updated).toLocaleDateString("en-US",{month:"short",day:"numeric"})}catch(e){}
   const sel=selected!=null&&H[selected]?H[selected].key:null;
   setHouses(j.houses); selected=sel?(H.find(h=>h.key===sel)||{}).id??null:null;
-  if(zone&&!H.some(h=>h.zone===zone))zone=null;
+  if(zone&&zone!=="trip"&&!H.some(h=>h.zone===zone))zone=null;
+  if(zone==="trip"&&!H.some(h=>trip.has(h.key)))zone=null;
   boot();
 }).catch(()=>{});
 
@@ -531,7 +696,7 @@ fetch(API).then(r=>r.json()).then(j=>{
 const x=c.getContext("2d");let W,H,f=[];const R=()=>{W=c.width=innerWidth;H=c.height=innerHeight;f=Array.from({length:Math.round(W*H/22000)},()=>({x:Math.random()*W,y:Math.random()*H,r:Math.random()*1.6+.5,s:Math.random()*.4+.15,d:Math.random()*Math.PI*2}))};
 R();addEventListener("resize",R);(function t(){x.clearRect(0,0,W,H);x.fillStyle="#eef3f1";f.forEach(p=>{p.y+=p.s;p.d+=.01;p.x+=Math.sin(p.d)*.25;if(p.y>H){p.y=-3;p.x=Math.random()*W}x.beginPath();x.arc(p.x,p.y,p.r,0,7);x.fill()});requestAnimationFrame(t)})()})();
 addEventListener("resize",()=>setVB());setVB();boot();
-if(location.hash==="#top")showTab("top");
+{const t={"#top":"top","#events":"ev","#bingo":"bingo"}[location.hash];if(t)showTab(t);}
 </script>
 
 </body>
